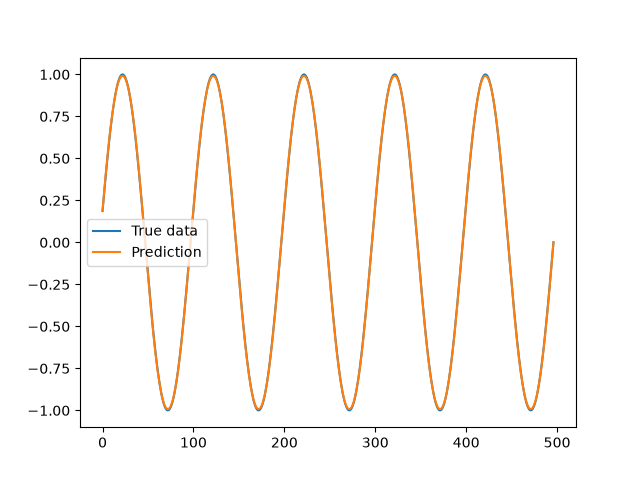
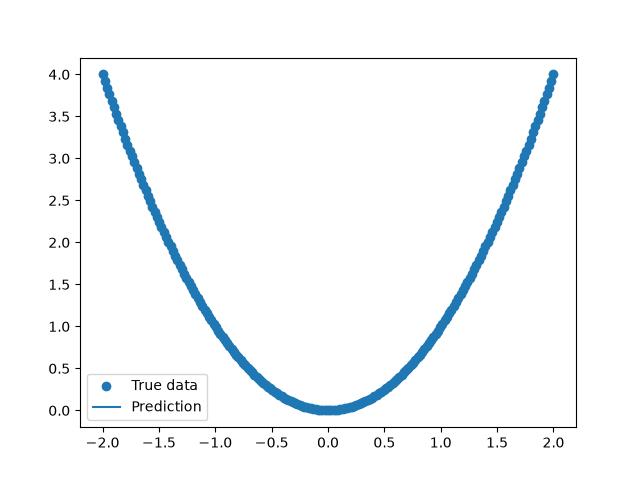
Add sequence forecasting visualization

diff --git a/utils.py b/utils.py
@@ -5,5 +5,5 @@ def plot_prediction(Y, predictions):
     plt.plot(predictions, label="Prediction")
 
     plt.legend()
-    plt.savefig("images/regression_demo.png")
+    plt.savefig("images/sine_prediction.png")
     plt.show()

diff --git a/datasets.py b/datasets.py
@@ -5,6 +5,7 @@ def load_sequence():
     data = np.sin(x)
     return data
 
+#Regression Demo:
 def data_creation():
     X = np.linspace(-2, 2, 200).reshape(-1, 1)
     Y = X ** 2

diff --git a/README.md b/README.md
@@ -31,7 +31,7 @@ I am doing this project on my own as part of my research portfolio.
 - [x] Gradient descent
 - [x] XOR classification
 - [x] Regression (learning y = x²)
-- [ ] Time-series forecasting
+- [x] Time-series forecasting
 - [ ] Quantum-inspired feature mapping
 - [ ] Experimental evaluation
 
@@ -67,7 +67,7 @@ I am doing this project on my own as part of my research portfolio.
 ## Regression Demo
 
 ![Regression Demo](images/regression_demo.png)
-
+![Sine-wave Prediction](image/sine_prediction.png)
 ---
 
 ## Author